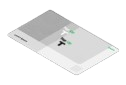
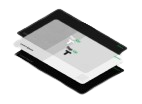
navbar

Changed region(s): [[0.0476, 0.0706, 0.9524, 0.9176], [0.4524, 0.3529, 0.4762, 0.3765], [0.3571, 0.5176, 0.381, 0.5412]]

diff --git a/src/components/Navbar.tsx b/src/components/Navbar.tsx
@@ -2,23 +2,23 @@ import { Link } from "react-router-dom"
 
 export default function Navbar() {
     return (
-        <nav className="border-b flex flex-row justify-between">
+        <nav className="border-b flex flex-row justify-between text-lg font-bold">
             <div className="flex flex-row gap-4 items-center">
                 <Link to={'/'}>
                     <img src='./icon.png' className="scale-50"/>
                 </Link>
-                <Link to={'/'}>
-                    <span>Tap</span>
-                    <span className="font-roboto">Up</span>
+                <Link to={'/'} className="py-2 px-8 flex flex-row gap-1">
+                    <span >Tap</span>
+                    <span className="text-customGreen">Up</span>
                 </Link>
             </div>  
-            <div className="flex flex-row items-center gap-8 pr-8">
-                <Link  to={'/about'}>About</Link>
-                <Link to={'/services'}>Services</Link>
-                <Link to={'/testimonials'}>Testimonials</Link>
-                <div className="flex flex-row gap-2">
-                    <Link to={'/login'}>login</Link>
-                    <Link to={'/activate'}>activate</Link>
+            <div className="flex flex-row items-center gap-x-16 pr-20">
+                <Link className="py-2 px-8"  to={'/about'}>About</Link>
+                <Link className="py-2 px-8" to={'/services'}>Services</Link>
+                <Link className="py-2 px-8" to={'/testimonials'}>Testimonials</Link>
+                <div className="flex flex-row gap-4">
+                    <Link className="py-2 px-8" to={'/login'}>login</Link>
+                    <Link className="bg-black text-white py-2 px-8 rounded-sm" to={'/activate'}>activate</Link>
                 </div>
             </div>          
         </nav>

diff --git a/tailwind.config.js b/tailwind.config.js
@@ -50,7 +50,8 @@ module.exports = {
         card: {
           DEFAULT: "hsl(var(--card))",
           foreground: "hsl(var(--card-foreground))",
-        }
+        },
+        customGreen: "#22C55E",
       },
       borderRadius: {
         lg: "var(--radius)",
